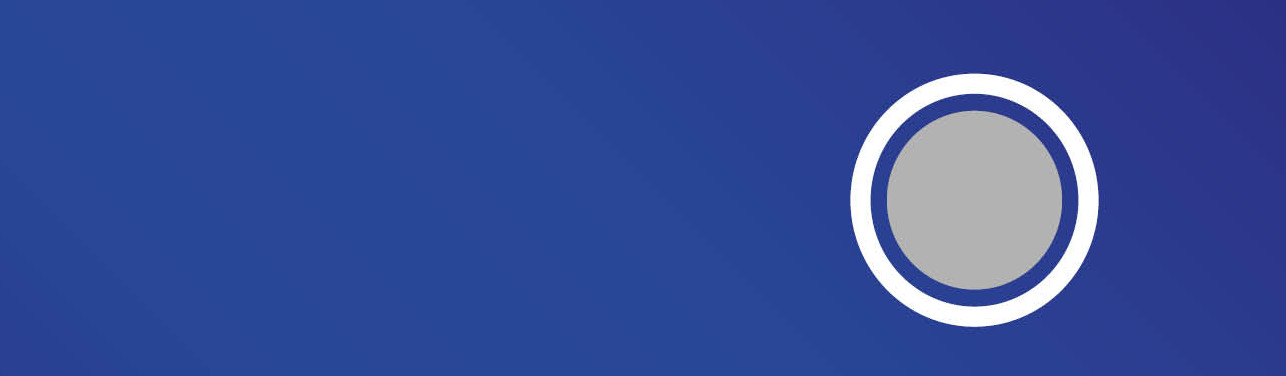
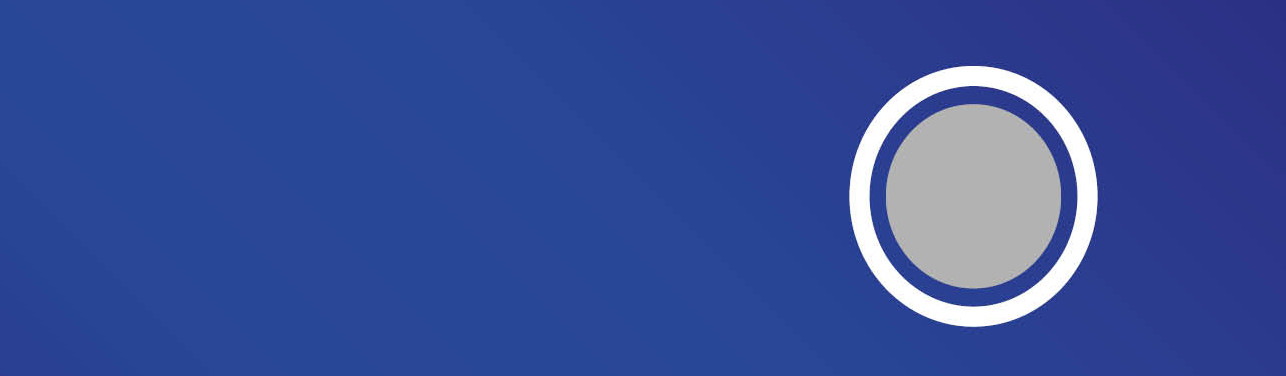
Onside Law-style About Us page. New home carousel first image: more oval

diff --git a/style.css b/style.css
@@ -197,6 +197,12 @@ a:active{
 	font-size: 16px;
 }
 
+#page-content-wrapper td {
+	font-family: 'Open Sans', sans-serif;
+	color: #68645F;
+	font-size: 16px;
+}
+
 .navbar li a:link {
 	font-family: 'Montserrat', sans-serif;
 	text-transform: uppercase;
@@ -263,6 +269,31 @@ a h3 {
 
 .wpcf7 textarea {
 	font-family: 'Open Sans', sans-serif;
+}
+
+#about-us-table td {
+	font-size: 14px;
+	padding: 0 5px 0 0;
+}
+
+#about-us-table tr {
+	border-bottom: dashed #333 1px;
+}
+
+#about-us-table {
+	margin-bottom: 10px;
+}
+
+/*Only show the fun borders on tablets and up*/
+@media (min-width: 768px) {
+	.about-us-card {
+		border: solid 1px #1C43A8;
+		margin-bottom: 5px;
+	}
+}
+
+.about-us-card-text {
+	padding: 0 5px;
 }
 
 /*END FONTS*/
@@ -522,6 +553,12 @@ img.img-center {
 	-webkit-box-shadow: inset 5px 5px 30px 0px rgba(245,245,245,1), 5px 0px 30px 0px rgba(245,245,245,1);
 	-moz-box-shadow: inset 5px 5px 30px 0px rgba(245,245,245,1), 5px 0px 30px 0px rgba(245,245,245,1);
 	box-shadow: inset 5px 5px 30px 0px rgba(245,245,245,1), 5px 0px 30px 0px rgba(245,245,245,1);
+}
+
+.gunnercooke-curves-no-shadow {
+	-webkit-border-top-left-radius: 20px;
+	-moz-border-radius-topleft: 20px;
+	border-top-left-radius: 20px;
 }
 
 .gunnercooke-heading {

diff --git a/custom-functions.php b/custom-functions.php
@@ -114,36 +114,64 @@ function getPeople ( $parent_page ) {
 	});
 
 	foreach ($children as $child) { ?>
-		<div class="col-sm-4 col-xs-6">
-			<?php
-				$child_id = $child->ID;
-				$child_post_title = $child->post_title;
-				$url_string_0 = titleToSlug($parent_page);
-				$url_string_1 = titleToSlug($child_post_title);
-				$link = get_site_url() . "/" . $url_string_0 . "/" . $url_string_1;
-			?>
-			<a href="<?= $link; ?>">
+		<div class="col-md-4 col-xs-6">
+			<div class="about-us-card gunnercooke-curves-no-shadow">
 				<?php
-					echo get_the_post_thumbnail( $child_id, "medium", array('class' => 'img-responsive gunnercooke-curves-images') );
+					$child_id = $child->ID;
+					$child_post_title = $child->post_title;
+					$url_string_0 = titleToSlug($parent_page);
+					$url_string_1 = titleToSlug($child_post_title);
+					$link = get_site_url() . "/" . $url_string_0 . "/" . $url_string_1;
 				?>
-			</a>
-			<div class="text-center">
-				<h4>
-					<?php $names = explode(" ", $child_post_title); ?>
-					<a href="<?= $link; ?>" class="about-us-names">
-						<?php foreach ($names as $name) {
-							echo $name . "<br>"; //Splitting the names over two lines is to prevent irritating flow issues on smaller screens. It would probably be better to do this using jQuery's width() and only split the names onto two lines when necessary, but for the time being this will have to do.
-						}
-						?>
-					</a>
-				</h4>
-			</div>
-			<?php
-				$postid = url_to_postid( get_site_url() ."/" . get_the_title() ."/" . $url_string_1 ); 
-				$job_title = get_post_meta( $postid, "Title", true);
-			?>
-			<div class="text-center">
-				<p><?= $job_title; ?></p>
+				<a href="<?= $link; ?>">
+					<?php
+						echo get_the_post_thumbnail( $child_id, "medium", array('class' => 'img-responsive gunnercooke-curves-no-shadow desaturate') );
+					?>
+				</a>
+				<div class="about-us-card-text">
+					<h4 class="text-center">
+						<?php $names = explode(" ", $child_post_title); ?>
+						<!-- Names on one line for tablet and up -->
+						<a href="<?= $link; ?>" class="about-us-names hidden-xs">
+							<?php echo $child_post_title; ?>
+						</a>
+						<!-- Names over two lines for phones to prevent flow problems -->
+						<a href="<?= $link; ?>" class="about-us-names visible-xs-inline">
+							<?php  foreach ($names as $name) {
+								echo $name . "<br>"; 
+							}
+							?>
+						</a>
+					</h4>
+					<?php
+						$postid = url_to_postid( get_site_url() ."/" . get_the_title() ."/" . $url_string_1 ); 
+						$job_title = get_post_meta( $postid, "Title", true);
+					?>
+					<p class="text-center visible-xs-block"><?= $job_title; ?></p>
+					<div class="hidden-xs">
+						<table id="about-us-table">
+							<tbody>
+								<tr>
+									<td class="first-column">Position:</td>
+									<td>Partner</td>
+								</tr>
+								<tr>
+									<td>Previous Clubs:</td>
+									<td>Clifford Chance, IMG</td>
+								</tr>
+								<tr>
+									<td>Skills:</td>
+									<td>Commercial, IP, Dispute Resolution / Regulatory</td>
+								</tr>
+								<tr>
+									<td>Specialisms:</td>
+									<td>Sponsorship, Talent Management, Media &amp; Broadcasting</td>
+								</tr>						
+							</tbody>
+						</table>
+						<p><em><a href="<?= $link; ?>"> Full bio...</a></em></p>
+					</div>
+				</div>
 			</div>
 		</div>
 		<?php

diff --git a/biography.php b/biography.php
@@ -41,7 +41,7 @@ Template Name: Biography
 
 			<div class="row">
 				<div class="col-sm-4">
-					<?= the_post_thumbnail("full", array('class' => 'img-responsive gunnercooke-curves-images')); ?>
+					<?= the_post_thumbnail("full", array('class' => 'img-responsive gunnercooke-curves-images desaturate')); ?>
 				</div>
 
 				<div class="col-sm-8">

diff --git a/header.php b/header.php
@@ -42,9 +42,7 @@
 			        });
 			        //Call home page and biography carousels at custom speeds
 			        $('#carousel-home-page').carousel({
-						// interval: 3500
-						pause: true,
-    					interval: false
+						interval: 3500
  					});
  					$('#carousel-biography').carousel({
 						interval: 5000

diff --git a/about-us.php b/about-us.php
@@ -9,7 +9,7 @@ Template Name: About us
 <?php get_header(); ?>
 
 <div class="row">
-	<div class="col-sm-6 col-sm-offset-3 gunnercooke-curves">
+	<div class="col-sm-8 col-sm-offset-2 gunnercooke-curves">
 
 
 		<?php if (have_posts()): ?>

diff --git a/single.php b/single.php
@@ -55,4 +55,6 @@
 	<?php endwhile; ?>
 <?php endif; ?>
 
+<?php comments_template(); // Get wp-comments.php template ?>
+
 <?php get_footer(); ?>
